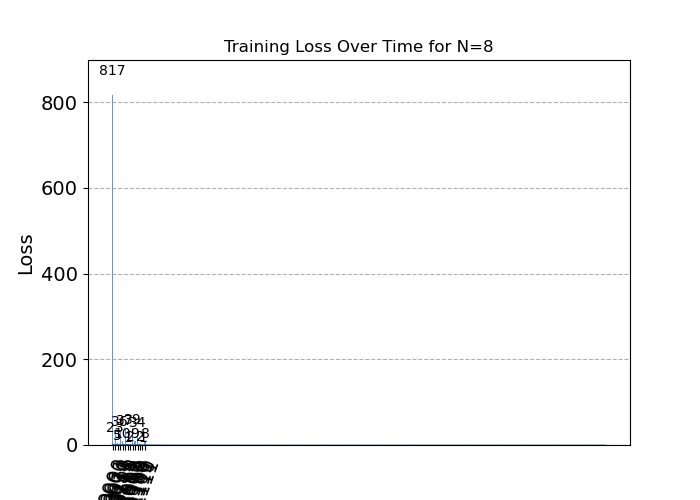
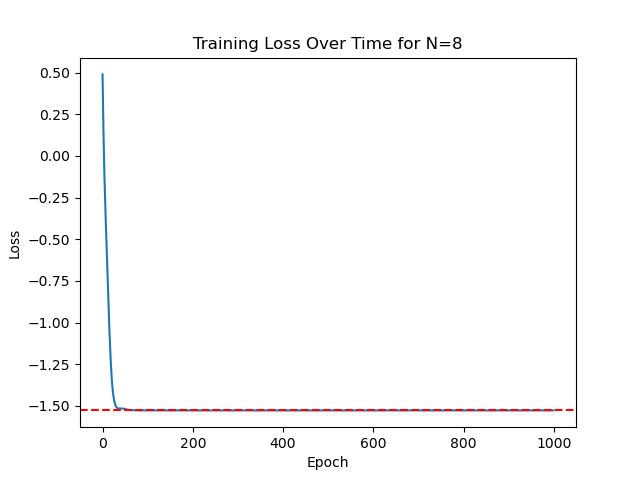
2 syk runs

Changed region(s): [[0.0, 0.0625, 0.9062, 1.0], [0.4688, 0.9375, 0.5625, 0.9688], [0.875, 0.375, 0.9062, 0.4062]]

diff --git a/SYK_implementation.py b/SYK_implementation.py
@@ -124,66 +124,69 @@ encoder = ClassicalEncoder()
 
 # Define a function to execute the quantum circuit
 def run_quantum_circuit(params):
-    # Create a list of parameters for the quantum circuit
     theta = [Parameter(f'θ{i}') for i in range(4)]
+    qc = QuantumCircuit(4, 4)
 
-    # add control rotation gates
-    
-    # Create a quantum circuit with 4 qubits and 4 classical bits
-    qc = QuantumCircuit(4)
-    
-    # Apply initial Ry and Rx rotations
     for i in range(4):
-        qc.rz(theta[i], i)
+        qc.ry(theta[i], i)
         qc.rx(theta[i], i)
-        qc.rz(theta[i], i)
+
+    qc.cnot(3, 0)
+    qc.cnot(1, 0)
+    qc.cnot(2, 1)
+    qc.cnot(3, 2)
+    qc.barrier()
+
+    for i in range(4):
+        qc.rx(theta[i], i)
+        qc.ry(theta[i], i)
+        qc.rx(theta[i], i)
+
+    qc.cnot(3,0)
+    qc.cnot(1,0)
+    qc.cnot(2,1)
+    qc.cnot(3,2)
 
     qc.barrier()
 
-
     for i in range(4):
-        qc.rxx(theta[i],0,1)
-        qc.rxx(theta[i],1,2)
-        qc.rxx(theta[i],2,3)
-        qc.rxx(theta[i],0,3)
-    
+        qc.rx(theta[i], i)
+        qc.ry(theta[i], i)
+        qc.rx(theta[i], i)
+
+    qc.cnot(3,0)
+    qc.cnot(1,0)
+    qc.cnot(2,1)
+    qc.cnot(3,2)
 
     qc.barrier()
     
     
 
     # Add measurements to all qubits
-    qc.measure_all()
-    
-    # Bind the parameters to the values from the PyTorch model
+    #qc.measure_all()
+
+
+    # Do not use qc.measure_all(), as we will be measuring each qubit individually
+    for i in range(4):
+        qc.measure(i, i)
+
     param_dict = {theta[i]: params[i].item() for i in range(4)}
     qc_bound = qc.bind_parameters(param_dict)
-    
-    # Print the quantum circuit
-    #print(qc_bound)
-
-    # If you want a visual diagram of the circuit, you can use:
-    # circuit_drawer(qc_bound, output='mpl').show()
-
-    # Execute the quantum circuit
     backend = Aer.get_backend('qasm_simulator')
     job = execute(qc_bound, backend, shots=1024)
     result = job.result()
     counts = result.get_counts(qc_bound)
-    
-    # Plot the histogram of results
-    plot_histogram(counts)
-    
-    # Get the most common bitstring
-    output_bitstring = max(counts, key=counts.get)
-    
-    # Convert bitstring to numpy array of integers
-    output_data = np.array([int(bit) for bit in output_bitstring])
-    
-    # Convert to PyTorch tensor
-    output_tensor = torch.tensor(output_data, dtype=torch.float32)
-    
-    return output_tensor
+
+    expectation_values = []
+    for i in range(4):
+        # Calculate expectation value for each qubit
+        p0 = counts.get('0' * i + '0' + '0' * (3 - i), 0) / 1024
+        p1 = counts.get('0' * i + '1' + '0' * (3 - i), 0) / 1024
+        expectation_value = p0 - p1
+        expectation_values.append(expectation_value)
+
+    return torch.tensor(expectation_values, dtype=torch.float32)
 
 # Define the classical decoder neural network
 class ClassicalDecoder(nn.Module):
@@ -253,7 +256,7 @@ input_data = torch.rand(len(hamiltonian_matrix), requires_grad=True)  # Example 
 # Optimization setup
 #print("The model parameters are: ", model.parameters)
 optimizer = optim.Adam(model.parameters(), lr=0.01)
-num_epochs = 200
+num_epochs = 1000
 loss_values = []
 
 for epoch in range(num_epochs):
